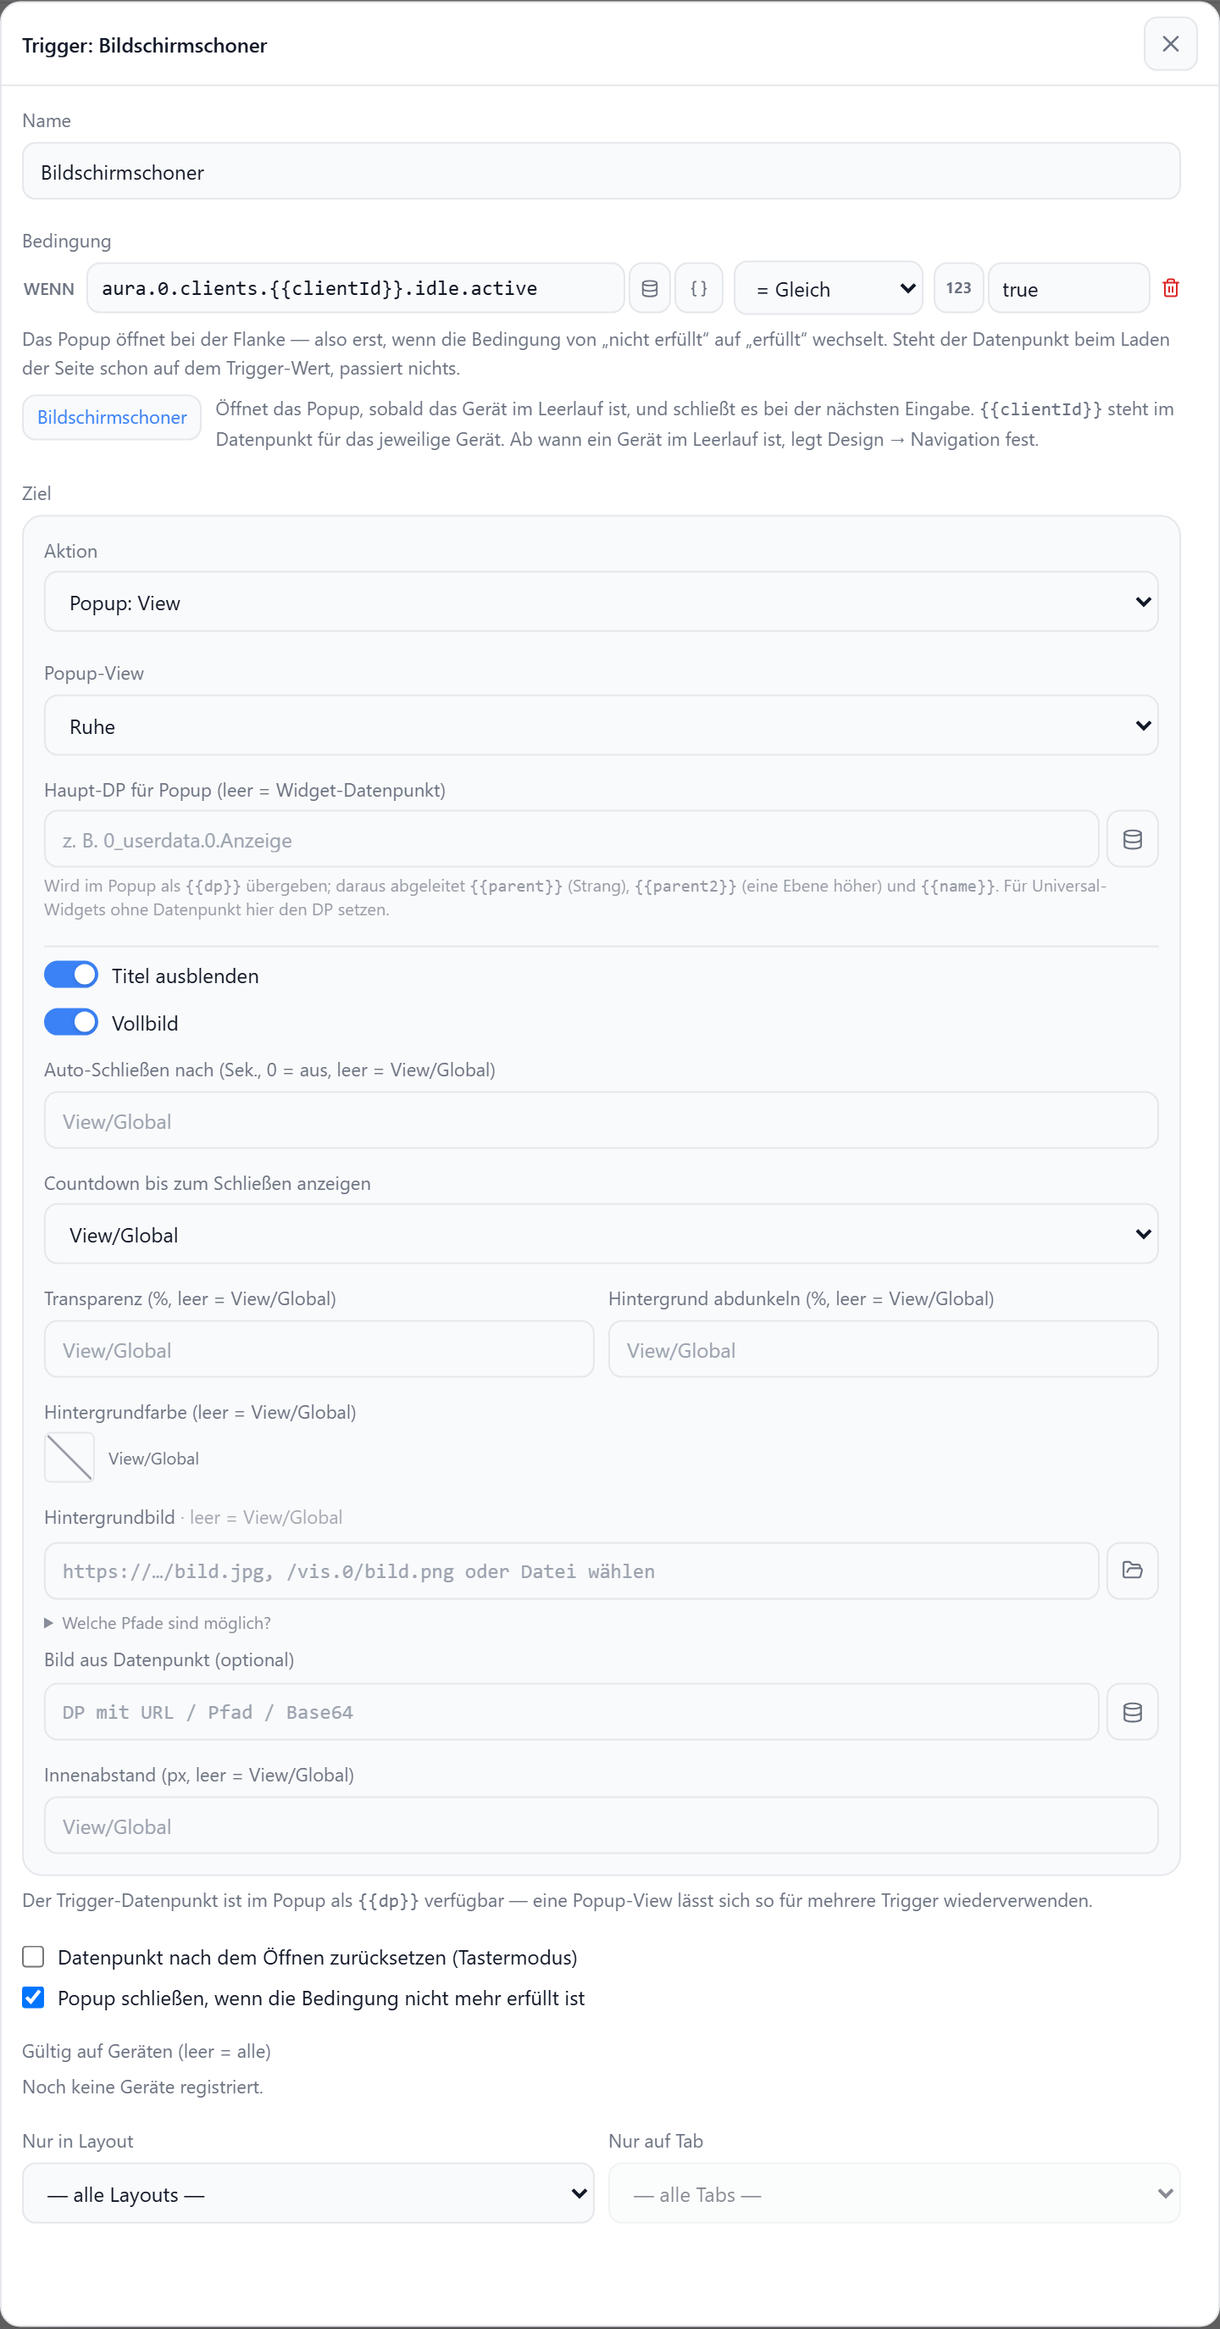
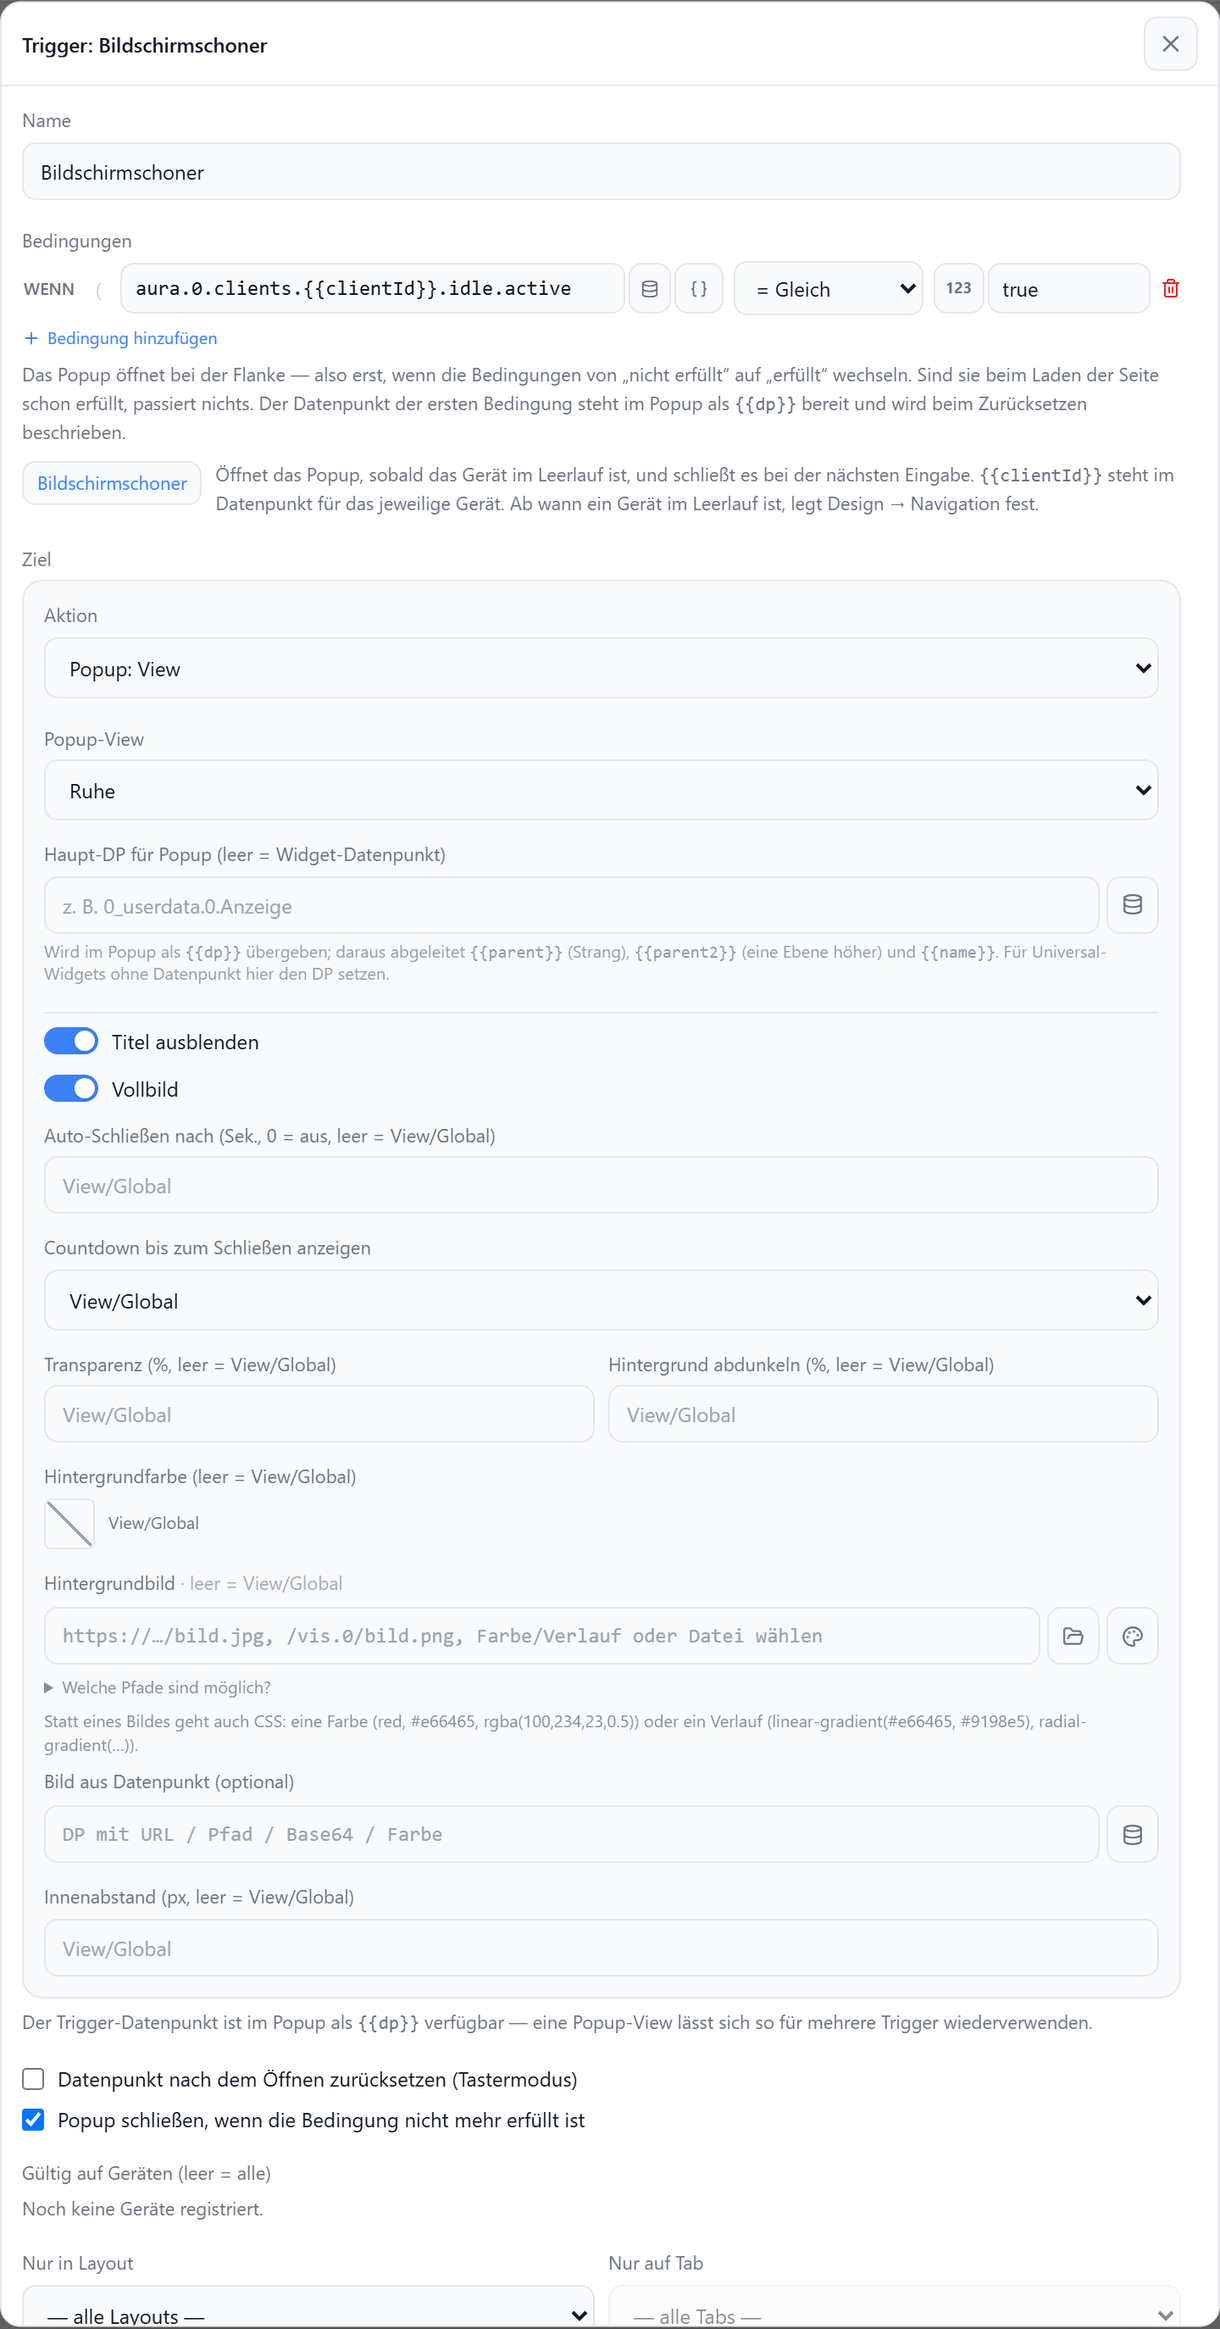
feat(popup): combine several conditions in a datapoint trigger (#849)
A popup trigger now holds further conditions next to its first one,
chained with AND / OR and brackets via the shared ClauseList. The first
condition stays the trigger datapoint ({{dp}} and reset target), so
stored rules keep working unchanged. A rule is armed only after every
datapoint has primed (2 s grace for missing ones), so a staggered
page load cannot fire it.

diff --git a/src-vis/components/widgets/popup/DpPopupTriggers.tsx b/src-vis/components/widgets/popup/DpPopupTriggers.tsx
@@ -3,10 +3,16 @@ import type { ClickAction, ConditionClause, WidgetConfig } from '../../../types'
 import { subscribeDpValue, setStateDirect } from '../../../hooks/useIoBroker';
 import { useConnectionStore } from '../../../store/connectionStore';
 import { useDashboardStore } from '../../../store/dashboardStore';
-import { usePopupConfigStore, CLIENT_ID_TOKEN, type PopupTrigger } from '../../../store/popupConfigStore';
+import {
+    usePopupConfigStore,
+    CLIENT_ID_TOKEN,
+    triggerClauses,
+    type PopupTrigger,
+} from '../../../store/popupConfigStore';
 import { usePopupRuntimeStore } from '../../../store/popupRuntimeStore';
 import { isScreenshotMode } from '../../../store/persistManager';
 import { evaluateClause } from '../../../utils/conditionEval';
+import { combineClauseHits } from '../../../utils/clauseLogic';
 import { WidgetClickPopup } from './WidgetClickPopup';
 
 /** Delay before writing the reset value back to the trigger DP.
@@ -23,21 +29,40 @@ export function __devForceDpTriggers(on: boolean): void {
     devTriggersForced = on;
 }
 
+/** How long a rule waits for the primed values of all its DPs before arming anyway. */
+const PRIME_GRACE_MS = 2000;
+
 function clauseDps(clause: ConditionClause): string[] {
     const dps = clause.datapoint ? [clause.datapoint] : [];
     if (clause.valueType === 'datapoint' && clause.value) dps.push(clause.value);
     return dps;
 }
 
+function triggerDps(trigger: PopupTrigger): string[] {
+    return [...new Set(triggerClauses(trigger).flatMap(clauseDps))];
+}
+
 function withClientId(trigger: PopupTrigger, clientId: string): PopupTrigger {
     const sub = (v: string) => v.split(CLIENT_ID_TOKEN).join(clientId);
-    const c = trigger.clause;
-    if (!c.datapoint.includes(CLIENT_ID_TOKEN) && !(c.valueType === 'datapoint' && c.value.includes(CLIENT_ID_TOKEN)))
-        return trigger;
-    return {
-        ...trigger,
-        clause: { ...c, datapoint: sub(c.datapoint), value: c.valueType === 'datapoint' ? sub(c.value) : c.value },
-    };
+    const usesToken = (c: ConditionClause) =>
+        c.datapoint.includes(CLIENT_ID_TOKEN) || (c.valueType === 'datapoint' && c.value.includes(CLIENT_ID_TOKEN));
+    const resolve = (c: ConditionClause): ConditionClause =>
+        usesToken(c)
+            ? { ...c, datapoint: sub(c.datapoint), value: c.valueType === 'datapoint' ? sub(c.value) : c.value }
+            : c;
+    if (!triggerClauses(trigger).some(usesToken)) return trigger;
+    return { ...trigger, clause: resolve(trigger.clause), extraClauses: trigger.extraClauses?.map(resolve) };
+}
+
+/**
+ * All conditions of a trigger against the latest values. A further condition
+ * whose datapoint is still empty is half-configured and simply left out — it
+ * must not turn an otherwise working rule into one that never fires.
+ */
+function triggerMatches(trigger: PopupTrigger, values: Map<string, unknown>): boolean {
+    const clauses = triggerClauses(trigger).filter((c, i) => i === 0 || c.datapoint);
+    const hits = clauses.map((c) => evaluateClause(c, values.get(c.datapoint) ?? null, values));
+    return combineClauseHits(clauses, hits, 'AND');
 }
 
 function inScope(trigger: PopupTrigger, clientId: string, layoutId?: string, tabId?: string): boolean {
@@ -104,17 +129,22 @@ export function DpPopupTriggers({ layoutId, tabId }: Props) {
             if (!liveIds.has(id)) matchedRef.current.delete(id);
         }
 
+        // DPs per trigger whose primed value has not arrived yet. With several
+        // conditions the primes land one after the other, and a rule half-primed
+        // would see `true AND <unknown>` flip to `true AND true` on page load. A DP
+        // that does not exist never primes, hence the grace period as a backstop.
+        const pending = new Map<string, Set<string>>(activeTriggers.map((t) => [t.id, new Set(triggerDps(t))]));
+        const graceTimer = window.setTimeout(() => pending.clear(), PRIME_GRACE_MS);
+
         const evaluate = (trigger: PopupTrigger) => {
-            const values = valuesRef.current;
-            const raw = values.get(trigger.clause.datapoint) ?? null;
-            const matched = evaluateClause(trigger.clause, raw, values);
+            const matched = triggerMatches(trigger, valuesRef.current);
             const prev = matchedRef.current.get(trigger.id);
             matchedRef.current.set(trigger.id, matched);
 
             // First evaluation only records the baseline. subscribeDpValue primes
             // with the current value, so firing here would re-open every popup
             // whose DP happens to sit at `true` on each page load / reconnect.
-            if (prev === undefined) return;
+            if (prev === undefined || pending.has(trigger.id)) return;
             if (matched === prev) return;
 
             if (!matched) {
@@ -152,7 +182,7 @@ export function DpPopupTriggers({ layoutId, tabId }: Props) {
         // re-evaluates all of them.
         const consumers = new Map<string, PopupTrigger[]>();
         for (const trigger of activeTriggers) {
-            for (const dp of clauseDps(trigger.clause)) {
+            for (const dp of triggerDps(trigger)) {
                 const list = consumers.get(dp);
                 if (list) list.push(trigger);
                 else consumers.set(dp, [trigger]);
@@ -162,11 +192,19 @@ export function DpPopupTriggers({ layoutId, tabId }: Props) {
         const unsubs = [...consumers.entries()].map(([dp, rules]) =>
             subscribeDpValue(dp, (value) => {
                 valuesRef.current.set(dp, value);
-                for (const rule of rules) evaluate(rule);
+                for (const rule of rules) {
+                    // The evaluation that completes priming still only sets the
+                    // baseline — the rule is armed from the next value on.
+                    const waiting = pending.get(rule.id);
+                    waiting?.delete(dp);
+                    evaluate(rule);
+                    if (waiting && !waiting.size) pending.delete(rule.id);
+                }
             }),
         );
 
         return () => {
+            window.clearTimeout(graceTimer);
             unsubs.forEach((u) => u());
             for (const timer of resetTimers.values()) window.clearTimeout(timer);
             resetTimers.clear();

diff --git a/src-vis/pages/admin/AdminPopups.tsx b/src-vis/pages/admin/AdminPopups.tsx
@@ -15,6 +15,7 @@ import {
     DEFAULT_POPUP_PADDING,
     MAX_POPUP_PADDING,
     CLIENT_ID_TOKEN,
+    triggerClauses,
     type PopupView,
     type PopupTrigger,
 } from '../../store/popupConfigStore';
@@ -26,7 +27,7 @@ import { BackgroundImageField } from '../../components/config/BackgroundImageFie
 import { ExportAnonymizeDialog } from '../../components/config/ExportAnonymizeDialog';
 import { ClickActionEditor } from '../../components/config/ClickActionEditor';
 import { PopupCountdownSelect } from '../../components/config/PopupCountdownSelect';
-import { ClauseRow, newClause } from '../../components/config/ConditionEditor';
+import { ClauseList, newClause } from '../../components/config/ConditionEditor';
 import { ConfigModal } from '../../components/config/ConfigModal';
 import { WIDGET_REGISTRY } from '../../widgetRegistry';
 import { usePortalThemeVars } from '../../contexts/PortalTargetContext';
@@ -1247,18 +1248,26 @@ function TriggerEditModal({ trigger, onClose }: { trigger: PopupTrigger; onClose
 
                 <div>
                     <label className="text-[11px] mb-1 block" style={labelStyle}>
-                        Bedingung
+                        Bedingungen
                     </label>
-                    <ClauseRow
-                        clause={trigger.clause}
-                        isFirst
-                        onChange={(clause) => patch({ clause })}
-                        onDelete={() => patch({ clause: newClause() })}
-                    />
+                    {/* Several conditions with UND/ODER and brackets (#849). The first
+                        row stays the trigger DP — `{{dp}}` in the popup and reset target. */}
+                    <div className="space-y-1.5">
+                        <ClauseList
+                            clauses={triggerClauses(trigger)}
+                            logic="AND"
+                            addLabel="Bedingung hinzufügen"
+                            onChange={(next) => {
+                                const [first = newClause(), ...rest] = next;
+                                patch({ clause: first, extraClauses: rest.length ? rest : undefined });
+                            }}
+                        />
+                    </div>
                     <p className="text-[11px] mt-1.5" style={labelStyle}>
-                        Das Popup öffnet bei der Flanke — also erst, wenn die Bedingung von {'„nicht erfüllt“'} auf{' '}
-                        {'„erfüllt“'} wechselt. Steht der Datenpunkt beim Laden der Seite schon auf dem Trigger-Wert,
-                        passiert nichts.
+                        Das Popup öffnet bei der Flanke — also erst, wenn die Bedingungen von {'„nicht erfüllt“'} auf{' '}
+                        {'„erfüllt“'} wechseln. Sind sie beim Laden der Seite schon erfüllt, passiert nichts. Der
+                        Datenpunkt der ersten Bedingung steht im Popup als <span className="font-mono">{'{{dp}}'}</span>{' '}
+                        bereit und wird beim Zurücksetzen beschrieben.
                     </p>
                     {/* Screensaver preset (#822): the idle DP of whichever device shows the dashboard. */}
                     <div className="flex items-start gap-2 mt-2">
@@ -1342,7 +1351,7 @@ function TriggerEditModal({ trigger, onClose }: { trigger: PopupTrigger; onClose
                             onChange={(e) => patch({ closeOnFalse: e.target.checked })}
                         />
                         <span style={{ color: 'var(--text-primary)' }}>
-                            Popup schließen, wenn die Bedingung nicht mehr erfüllt ist
+                            Popup schließen, wenn die Bedingungen nicht mehr erfüllt sind
                         </span>
                     </label>
                     {trigger.closeOnFalse && trigger.resetDp && (
@@ -1564,6 +1573,9 @@ function PopupTriggersSection() {
                                 title={trigger.clause.datapoint}
                             >
                                 {trigger.clause.datapoint || '— kein Datenpunkt —'}
+                                {!!trigger.extraClauses?.length && (
+                                    <span className="font-sans"> + {trigger.extraClauses.length} weitere</span>
+                                )}
                             </div>
                         </div>
 

diff --git a/src-vis/store/popupConfigStore.ts b/src-vis/store/popupConfigStore.ts
@@ -119,13 +119,20 @@ export interface PopupTrigger {
     id: string;
     name: string;
     enabled: boolean;
+    /** First condition. Its datapoint is the trigger DP: popup `{{dp}}` and reset target. */
     clause: ConditionClause;
+    /**
+     * Further conditions (#849), chained to `clause` via their `join` / `bracket`
+     * exactly like widget conditions (AND binds tighter than OR). Kept apart from
+     * `clause` so stored single-condition rules stay valid unchanged.
+     */
+    extraClauses?: ConditionClause[];
     host: WidgetConfig;
     /** Write `resetValue` back to the trigger DP after opening ("button mode"). */
     resetDp: boolean;
     /** Value written on reset. Empty/undefined = boolean false. */
     resetValue?: string;
-    /** Close an open popup again as soon as the clause no longer matches. */
+    /** Close an open popup again as soon as the conditions no longer match. */
     closeOnFalse?: boolean;
     /** Restrict to these client ids (aura.0.clients.<id>). Empty/undefined = all clients. */
     clientIds?: string[];
@@ -133,6 +140,11 @@ export interface PopupTrigger {
     layoutId?: string;
     tabId?: string;
     createdAt?: number;
+}
+
+/** All conditions of a trigger in evaluation order — `clause` first. */
+export function triggerClauses(trigger: Pick<PopupTrigger, 'clause' | 'extraClauses'>): ConditionClause[] {
+    return trigger.extraClauses?.length ? [trigger.clause, ...trigger.extraClauses] : [trigger.clause];
 }
 
 /**
@@ -485,6 +497,7 @@ export const usePopupConfigStore = create<PopupConfigState>()(
                                 id: newId,
                                 name: `${source.name} (Kopie)`,
                                 clause: { ...source.clause },
+                                extraClauses: source.extraClauses?.map((c) => ({ ...c })),
                                 host: { ...source.host, id: `ptw-${Date.now()}`, options: { ...source.host.options } },
                                 clientIds: source.clientIds ? [...source.clientIds] : undefined,
                                 createdAt: Date.now(),

diff --git a/docs/einstellungen/popups.md b/docs/einstellungen/popups.md
@@ -29,18 +29,25 @@ Die Hintergrundfarbe gibt es zusätzlich als Theme-Token: `--popup-bg` (und `--p
 
 ## Popup per Datenpunkt
 
-Öffnet ein Popup, sobald ein beliebiger Datenpunkt seine Bedingung erfüllt — ohne Klick auf ein Widget.
+Öffnet ein Popup, sobald ein oder mehrere Datenpunkte ihre Bedingungen erfüllen — ohne Klick auf ein Widget.
 
 | Option | |
 | --- | --- |
-| Bedingung | Datenpunkt + Operator + Wert; ausgelöst wird nur die Flanke (nicht erfüllt → erfüllt) |
+| Bedingungen | Datenpunkt + Operator + Wert; mehrere mit UND / ODER und Klammern verknüpfbar. Ausgelöst wird nur die Flanke (nicht erfüllt → erfüllt) |
 | Ziel | Vollständige Klick-Aktion: Popup-View, alle Datenpunkte des Geräts, Bild, Webseite, JSON, HTML, Widget-Inhalt |
-| Datenpunkt zurücksetzen | Schreibt nach dem Öffnen einen Wert zurück (Tastermodus); leer = `false` |
-| Popup schließen, wenn … | Schließt das Popup, sobald die Bedingung nicht mehr erfüllt ist |
+| Datenpunkt zurücksetzen | Schreibt nach dem Öffnen einen Wert in den Datenpunkt der ersten Bedingung zurück (Tastermodus); leer = `false` |
+| Popup schließen, wenn … | Schließt das Popup, sobald die Bedingungen nicht mehr erfüllt sind |
 | Gültig auf Geräten | Optionaler Client-Filter; leer = alle Geräte |
 | Nur in Layout / Nur auf Tab | Optionaler Scope |
 
-Der Trigger-Datenpunkt steht im Popup als `{{dp}}` bereit — eine Popup-View lässt sich so für mehrere Trigger wiederverwenden.
+Der Datenpunkt der ersten Bedingung steht im Popup als `{{dp}}` bereit — eine Popup-View lässt sich so für mehrere Trigger wiederverwenden.
+
+| Beispiel | Bedingungen |
+| --- | --- |
+| Klingel nur bei Anwesenheit | `Klingel` ist wahr **UND** `Anwesend` ist wahr |
+| Ruhe-Ansicht bei Leerlauf oder Nachtmodus | `clients.{{clientId}}.idle.active` = `true` **ODER** `Nachtmodus` ist wahr |
+
+UND bindet stärker als ODER; die Klammer-Schaltfläche links fasst Zeilen zusammen.
 
 `{{clientId}}` im Datenpunkt steht für das Gerät, auf dem das Dashboard läuft — eine Regel gilt so für jedes Gerät einzeln.
 

diff --git a/RELEASE_NOTES.md b/RELEASE_NOTES.md
@@ -10,3 +10,4 @@
 - Popups - a popup that closes itself after n seconds now resets the idle datapoint clients.<id>.idle.active to false, so the screensaver popup comes back after the next idle period (#856)
 - Slideshow - new widget that shows photos and videos from a folder on the server, sorted by capture date (EXIF) or at random, with fade-to-black, crossfade, slide and page-turn transitions and optional video sound; works as a tile or as a screensaver (#848)
 - Room climate - in a popup opened from a list row with {{parent}} datapoints the history chart now shows data: an empty history instance falls back to the triggering widget's instance or is detected from the datapoint (#857)
+- Popups - a datapoint trigger can now combine several conditions with AND / OR and brackets, e.g. doorbell AND someone at home; the popup opens when the combination becomes true (#849)

diff --git a/docs/anleitungen/bildschirmschoner.md b/docs/anleitungen/bildschirmschoner.md
@@ -30,7 +30,7 @@ Jedes Gerät meldet seinen Zustand in `aura.0.clients.<ID>.idle.active` (`true` 
 
 | Schritt | |
 | --- | --- |
-| Knopf **Bildschirmschoner** | Setzt die Bedingung `aura.0.clients.{{clientId}}.idle.active` = `true` und „Popup schließen, wenn die Bedingung nicht mehr erfüllt ist“ |
+| Knopf **Bildschirmschoner** | Setzt die Bedingung `aura.0.clients.{{clientId}}.idle.active` = `true` und „Popup schließen, wenn die Bedingungen nicht mehr erfüllt sind“ |
 | Aktion | `Popup: View` |
 | Popup-View | Die Ruhe-Ansicht aus Schritt 2 |
 | Titel ausblenden | An |
